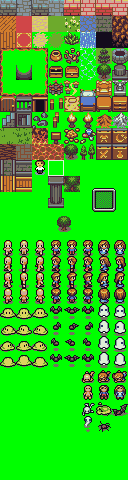
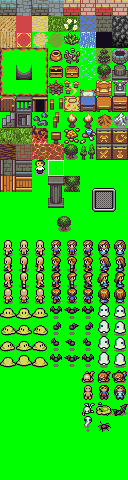
Fixed emscripten support, added new spritesheet.

diff --git a/main.h b/main.h
@@ -143,6 +143,7 @@ int cameraX=0;
 int cameraY=0;
 
 void entityInitialise();
+void entityScroll(int x, int y);
 void entityReset();
 void entitySpawn(entity in, int x, int y);
 void nentityReset();
@@ -151,8 +152,11 @@ void deadEntityKiller();
 void corpseDisposal();
 void mapLoader(char entities[SW][SH], char collisions[SW][SH]);
 SDL_Surface* surfLoader (SDL_Surface* imgIn, unsigned int sizeX, unsigned int sizeY, unsigned char inSize, unsigned char outSize, unsigned char tNum);
+void pushMsg(char* inStr);
 unsigned int get_diff (int val1, int val2);
 uint32_t lfsr (uint32_t shift);
+int intersect(unsigned int x, unsigned int y);
+void generateTunnels();
 uint32_t getrandom();
 void setCollision(view* in, int iX, int iY, char stat);
 void worldgen(view* in, uint16_t xPos, uint16_t yPos);

diff --git a/README.md b/README.md
@@ -1,7 +1,7 @@
 # Drip
 A procedurally generated Zelda style roguelike action RPG.
 
-Graphics by Lanea Zimmerman, https://opengameart.org/content/tiny-16-basic
+Graphics by Miles Langford, derived from Lanea Zimmerman's https://opengameart.org/content/tiny-16-basic
 
 
 Type "make noscroll" if your machine is too slow to handle scrolling; type "make web" to build for emscripten.
